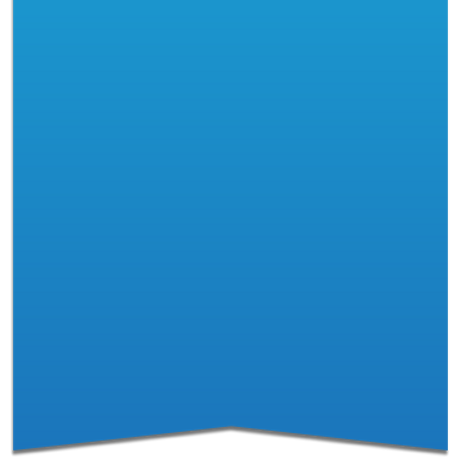
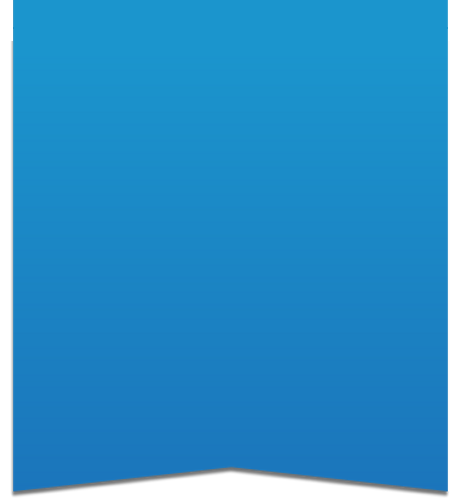
Aumentar largo de pendon de formulario. Arreglar error al publicar presupuesto con errores. Arreglado atributo de trabajo que daba error en mailer

diff --git a/app/controllers/presupuestos_controller.rb b/app/controllers/presupuestos_controller.rb
@@ -114,7 +114,8 @@ class PresupuestosController < ApplicationController
     @trabajo = Trabajo.find(params[:trabajo_id])
     @presupuesto = @trabajo.presupuestos.build(params[:presupuesto])
     @presupuesto.proveedor_id = current_proveedor.perfilable_id
-
+    
+    @path = [@trabajo, @presupuesto]
     @es_el_proveedor = false
     if proveedor_signed_in?
       @es_el_proveedor = @presupuesto.proveedor_id.eql?(current_proveedor.perfilable_id)

diff --git a/app/mailers/ttp_mailer.rb b/app/mailers/ttp_mailer.rb
@@ -20,7 +20,7 @@ class TtpMailer < ActionMailer::Base
 
    # notifica la rececpicon de un presupuesto en un trabajo
   def presupuesto_recibido(trabajo,presupuesto,proveedor,usuarios)
-    @trabajo          = trabajo.nombre
+    @trabajo          = trabajo.proposito
     @categoria        = trabajo.categoria.nombre
     @presupuesto      = presupuesto
     @proveedor        = proveedor.nombre_empresa
